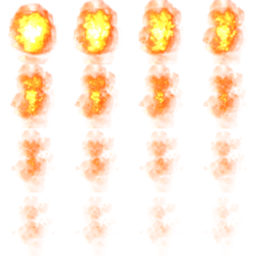
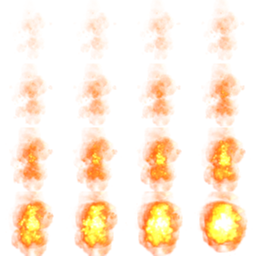
fire animation works. not correct effect but works

diff --git a/src/PointCloudRenderer.cpp b/src/PointCloudRenderer.cpp
@@ -78,15 +78,22 @@ void PointCloudRenderer::Create(GLFWwindow* window)
     glBindBuffer(GL_ARRAY_BUFFER, billboard_texture_buffer);
     glBufferData(GL_ARRAY_BUFFER, sizeof(billboard_texture_data), billboard_texture_data, GL_STATIC_DRAW);
 
-    VSFSProgram->bind();
 
-    m_viewIndex = glGetUniformLocation(VSFSProgram->getPID(), "view");
-    m_projectionIndex = glGetUniformLocation(VSFSProgram->getPID(), "projection");
-    m_enableShadingIndex = glGetUniformLocation(VSFSProgram->getPID(), "enableShading");
-    m_xyTableSamplerIndex = glGetUniformLocation(VSFSProgram->getPID(), "xyTable");
-    m_depthSamplerIndex = glGetUniformLocation(VSFSProgram->getPID(), "depth");
-    m_sceneTextureIndex = glGetUniformLocation(VSFSProgram->getPID(), "scene_tex");
-    glUniform1i(m_sceneTextureIndex, 0);
+
+    VSFSProgram->addUniform("model");
+    VSFSProgram->addUniform("view");
+    VSFSProgram->addUniform("projection");
+    VSFSProgram->addUniform("enableShading");
+    VSFSProgram->addUniform("xyTable");
+    VSFSProgram->addUniform("depth");
+    VSFSProgram->addUniform("totaltime");
+    VSFSProgram->addUniform("texoffset");
+
+
+    VSFSProgram->bind();
+    GLuint TexLoc;
+    TexLoc = glGetUniformLocation(VSFSProgram->getPID(), "scene_tex");
+    glUniform1i(TexLoc, 0);
 
 }
 
@@ -292,14 +299,18 @@ void PointCloudRenderer::Render(SceneComponent* scene, int width, int height)
     VSFSProgram->bind();
 
     // Update model/view/projective matrices in shader
-    glUniformMatrix4fv(m_viewIndex, 1, GL_FALSE, &m_view[0][0]);
-    glUniformMatrix4fv(m_projectionIndex, 1, GL_FALSE, &m_projection[0][0]);
+
+    glUniformMatrix4fv(VSFSProgram->getUniform("view"), 1, GL_FALSE, &m_view[0][0]);
+    glUniformMatrix4fv(VSFSProgram->getUniform("projection"), 1, GL_FALSE, &m_projection[0][0]);
+
+    glm::mat4 model = glm::scale(glm::mat4(1), glm::vec3(1.0f, 1.0f, 1.0f));
+    glUniformMatrix4fv(VSFSProgram->getUniform("model"), 1, GL_FALSE, &model[0][0]);
 
     // Update render settings in shader
-    glUniform1i(m_enableShadingIndex, (GLint)m_enableShading);
-    /*if(scene!=nullptr)
-        scene->draw(VSFSProgram);*/
-    if (scene != nullptr)
+    glUniform1i(VSFSProgram->getUniform("enableShading"), (GLint)m_enableShading);
+
+
+    if(scene!=nullptr)
         scene->draw(VSFSProgram);
 
     // Render point cloud

diff --git a/src/SceneComponent.cpp b/src/SceneComponent.cpp
@@ -26,6 +26,16 @@ void SceneComponent::update(double frametime)
 void SceneComponent::draw(Program* prog)
 {
 	glUniform1f(prog->getUniform("totaltime"), this->effect_time);
+	if (has_offset)
+	{
+		
+		float tileprogress = this->effect_time * (offset.x*offset.y);
+		int tx = (int)tileprogress % offset.x;
+		int ty = (int)tileprogress / offset.y;
+		vec4 texoff = vec4(offset.x, offset.y, tx, ty);
+		glUniform4fv(prog->getUniform("texoffset"), 1, &texoff.x);
+
+	}
 	if (add_tones)
 	{
 		glUniform1f(prog->getUniform("texblend"), 0);
@@ -45,6 +55,13 @@ void SceneComponent::activateTexture(Program* prog)
 	glActiveTexture(GL_TEXTURE0);
 	glBindTexture(GL_TEXTURE_2D, scene_texture->getTextureID());
 	//glPolygonMode(GL_FRONT_AND_BACK, GL_FILL);
+}
+
+void SceneComponent::setOffset(int length_of_x_anims, int length_of_y_anims)
+{
+	offset.x = length_of_x_anims;
+	offset.y = length_of_y_anims;
+	has_offset = true;
 }
 
 void SceneComponent::pauseAll()

diff --git a/src/PointCloudRenderer.h b/src/PointCloudRenderer.h
@@ -84,12 +84,13 @@ namespace Visualization
         GLuint m_xyTableTextureObject = 0;
         GLuint m_depthTextureObject = 0;
 
+      /*  GLuint m_modelIndex = 0;
         GLuint m_viewIndex = 0;
         GLuint m_projectionIndex = 0;
         GLuint m_enableShadingIndex = 0;
         GLuint m_xyTableSamplerIndex = 0;
         GLuint m_depthSamplerIndex = 0;
-        GLuint m_sceneTextureIndex = 0;
+        GLuint m_sceneTextureIndex = 0;*/
         // Lock
         std::mutex m_mutex;
 

diff --git a/src/WindowController.cpp b/src/WindowController.cpp
@@ -202,7 +202,10 @@ void WindowController::SetWindowPosition(int xPos, int yPos)
 
 void WindowController::InitializeScenes()
 {
-    scene_comps.emplace(SUN, new SceneComponent("../resources/chameleon.png"));
+    SceneComponent* sun_scene = new SceneComponent("../resources/fire_animation.png");
+    sun_scene->setOffset(4, 4);
+    scene_comps.emplace(SUN, sun_scene);
+
 }
 
 bool WindowController::InitializePointCloudRenderer(

diff --git a/src/SceneComponent.h b/src/SceneComponent.h
@@ -37,6 +37,8 @@ public:
 
 	virtual void activateTexture(Program* prog);
 
+	void setOffset(int length_of_x_anims, int length_of_y_anims);
+
 	SimpleTexture2D* getTexture() { return(scene_texture); }
 
 	void pauseAll();
@@ -51,6 +53,8 @@ protected:
 
 	float effect_time = 0;
 
+	ivec2 offset = ivec2(0);
+	bool has_offset = false;
 	bool add_tones = false;
 	bool is_paused = false;
 
